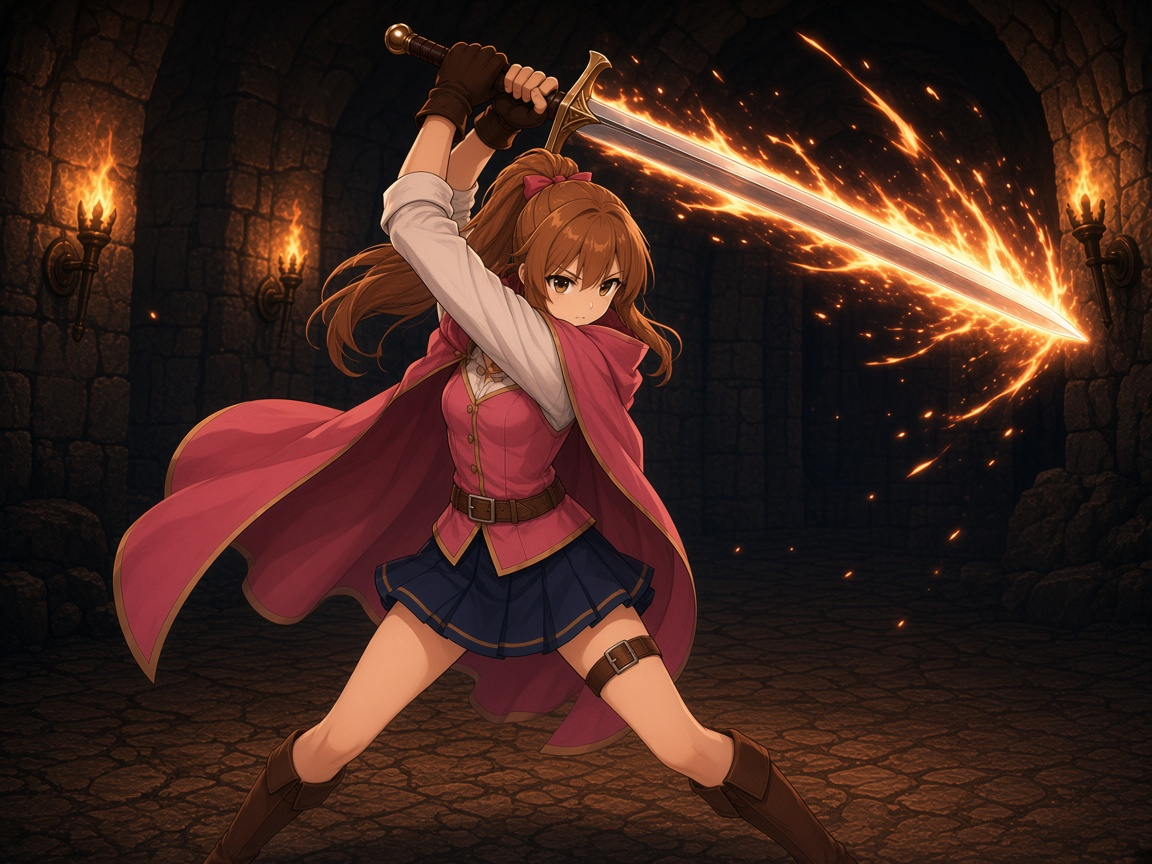
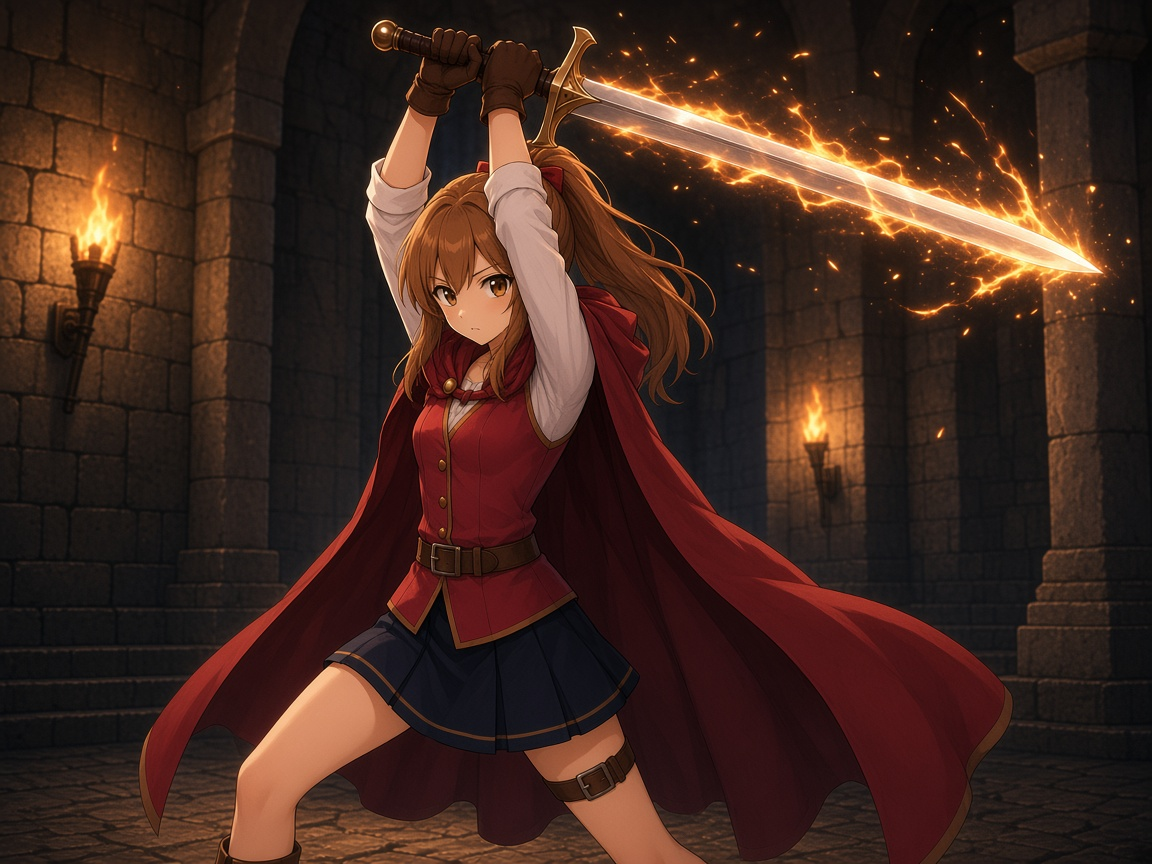
Match the female charge attack costume to the character design

diff --git a/index.html b/index.html
@@ -5290,7 +5290,7 @@
     };
     const CARD_ART_CAST = {
       アタック: ["card-attack-m.jpg?v=2", "card-attack-f.jpg?v=3"],
-      チャージアタック: ["card-charge-m.jpg?v=1", "card-charge-f.jpg?v=3"],
+      チャージアタック: ["card-charge-m.jpg?v=1", "card-charge-f.jpg?v=4"],
       ビッグアタック: ["card-big-attack-m.jpg?v=1", "card-big-attack-f.jpg?v=1"],
       ブロック: ["card-block-m.jpg?v=1", "card-block-f.jpg?v=2"],
       ハードブロック: ["card-hard-block-m.jpg?v=1", "card-hard-block-f.jpg?v=2"],
@@ -8859,7 +8859,7 @@
       ["made-attack-m", "アタック（男）", "card-attack-m.jpg?v=2"],
       ["made-attack-f", "アタック（女）", "card-attack-f-card.png?v=5"],
       ["made-charge-m", "チャージアタック（男）", "card-charge-m.jpg?v=1"],
-      ["made-charge-f", "チャージアタック（女）", "card-charge-f-card.png?v=3"],
+      ["made-charge-f", "チャージアタック（女）", "card-charge-f-card.png?v=4"],
       ["made-big-attack-m", "ビッグアタック（男）", "card-big-attack-m.jpg?v=1"],
       ["made-big-attack-f", "ビッグアタック（女）", "card-big-attack-f.jpg?v=1"],
       ["made-block-m", "ブロック（男）", "card-block-m.jpg?v=1"],
